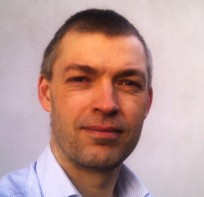
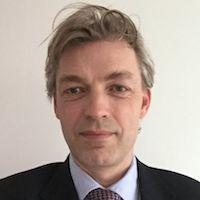
Ryd op i og tilføj flere nutdige forskere (#99)
* Fjern gamle forskere og opdater billeder

* Tilføj nye forskere

diff --git a/content/res/gæt-en-forsker/kode.js b/content/res/gæt-en-forsker/kode.js
@@ -51,26 +51,26 @@ function build_page() {
         .text(' sekunder');
 
     var researchers = [
-        'Aasa Feragen',
         'Andrzej Filinski',
         'Christian Igel',
         'Cosmin Eugen Oancea',
         'Fritz Henglein',
         'Jakob Grue Simonsen',
+        'Jon Sporring',
         'Jørgen Bansler',
-        'Jyrki Katajainen',
         'Kasper Hornbæk',
         'Ken Friis Larsen',
         'Kenny Erleben',
-        'Marcos António Vaz Salles',
         'Martin Elsman',
-        'Mikkel Rønne Jakobsen',
+        'Michael Kirkedal Thomsen',
         'Mikkel Thorup',
         'Pernille Bjørn',
-        'Sebastian Boring',
+        'Philippe Bonnet',
+        'Stefan Sommer',
         'Stephen Alstrup',
         'Sune Darkner',
-        'Torben Ægidius Mogensen'
+        'Torben Ægidius Mogensen',
+        'Valkyrie Savage'
     ];
     var researcher = researchers[Math.floor(Math.random() * researchers.length)];
 
